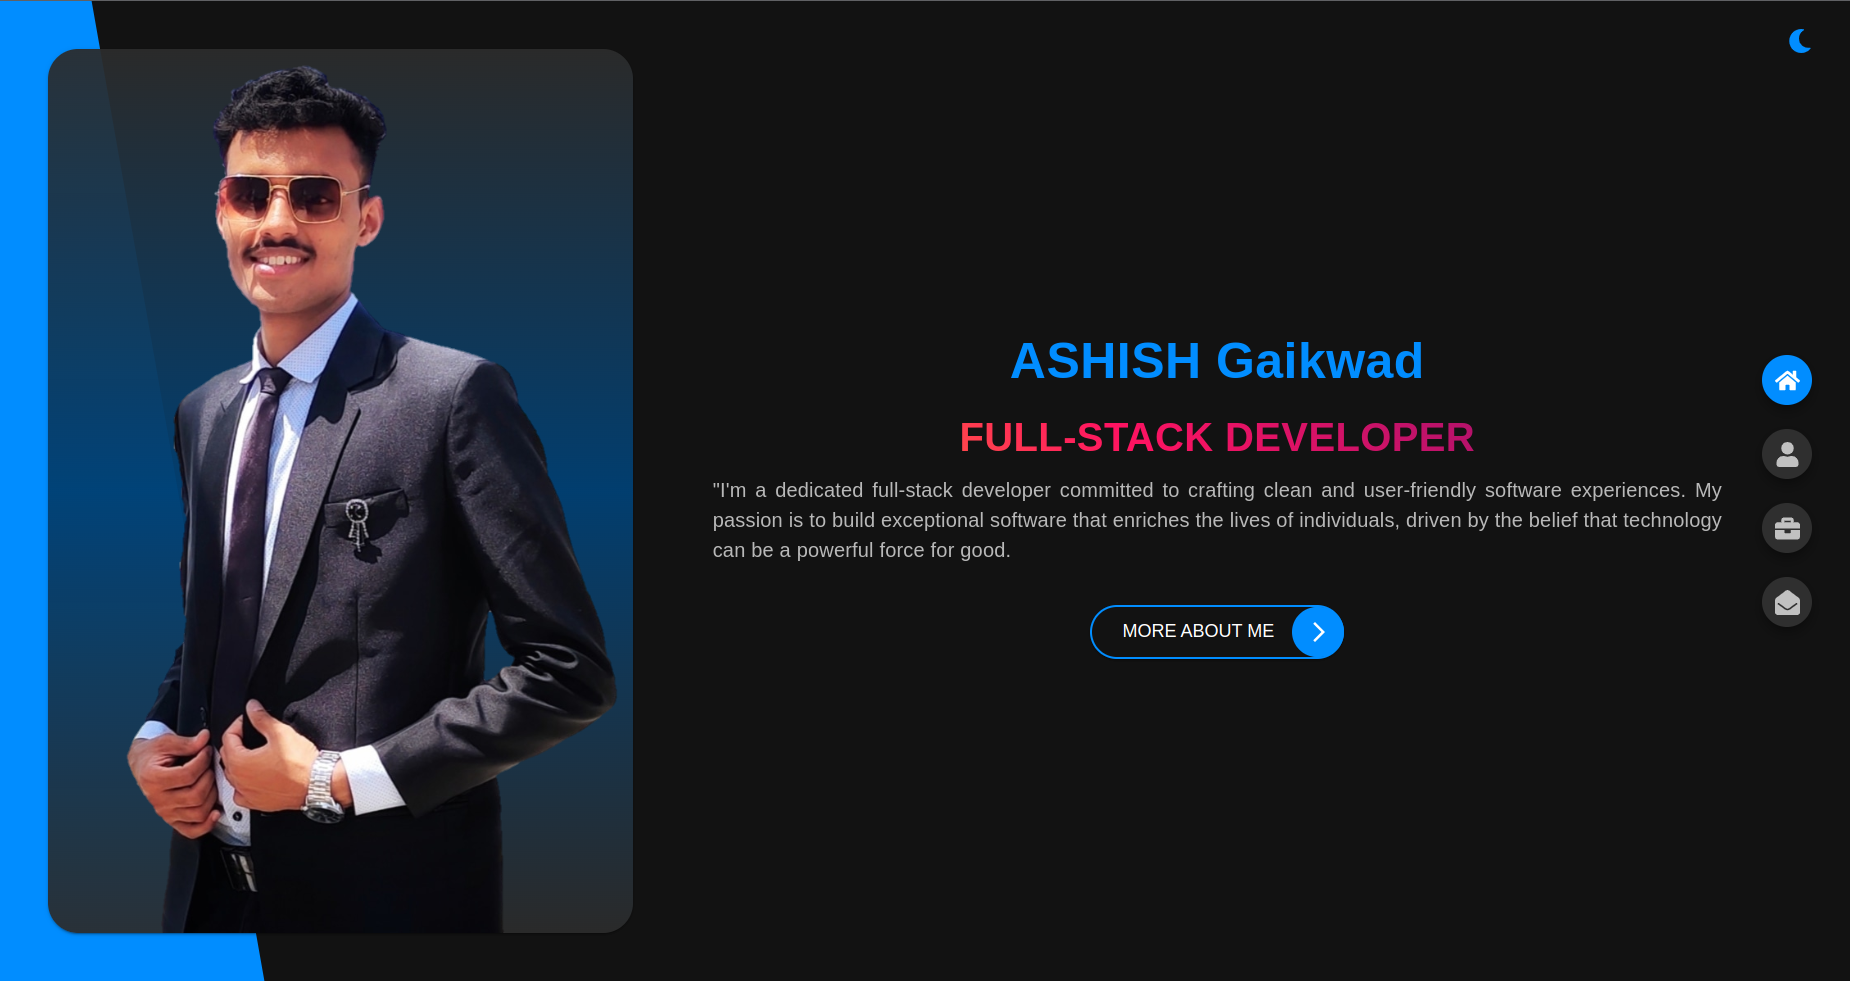
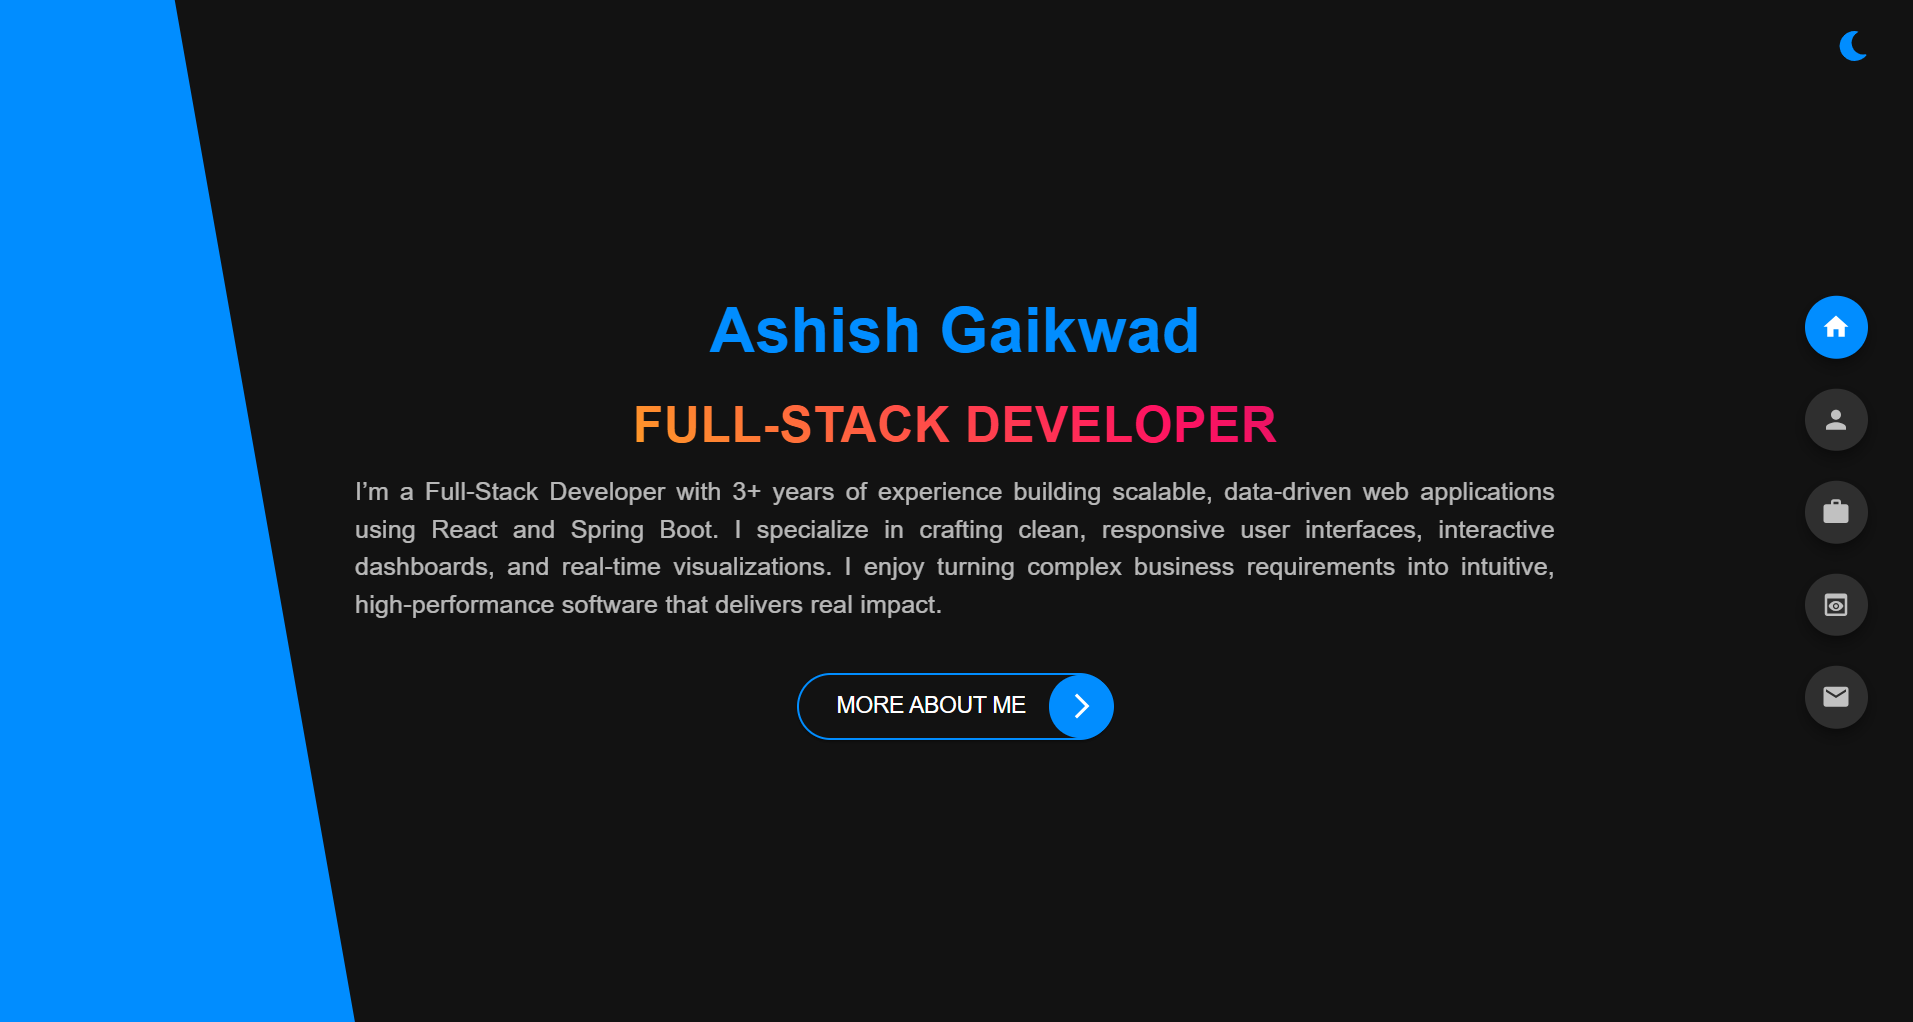
feat: update build script to disable source maps; enhance Home component description and fix name casing

Changed region(s): [[0.0, 0.0, 0.9859, 1.0], [0.4314, 0.6116, 0.7395, 0.7339], [0.9551, 0.0306, 0.9859, 0.0612]]

diff --git a/src/Components/Home.jsx b/src/Components/Home.jsx
@@ -45,7 +45,7 @@ export const Home = () => {
                   color="text.disabled"
                   textAlign="center"
                 >
-                  ASHISH Gaikwad
+                  Ashish Gaikwad
                 </Typography>
 
                 <Typography
@@ -65,9 +65,7 @@ export const Home = () => {
                   px={{ xs: 2, md: 10 }}
                   className="animate__animated animate__fadeIn"
                 >
-                  I'm a dedicated full-stack developer committed to crafting clean
-                  and user-friendly software experiences. My passion is to build
-                  exceptional software that enriches lives and creates real impact.
+                  I’m a Full-Stack Developer with 3+ years of experience building scalable, data-driven web applications using React and Spring Boot. I specialize in crafting clean, responsive user interfaces, interactive dashboards, and real-time visualizations. I enjoy turning complex business requirements into intuitive, high-performance software that delivers real impact.
                 </Typography>
 
                 {/* Manual navigation button (still works) */}
